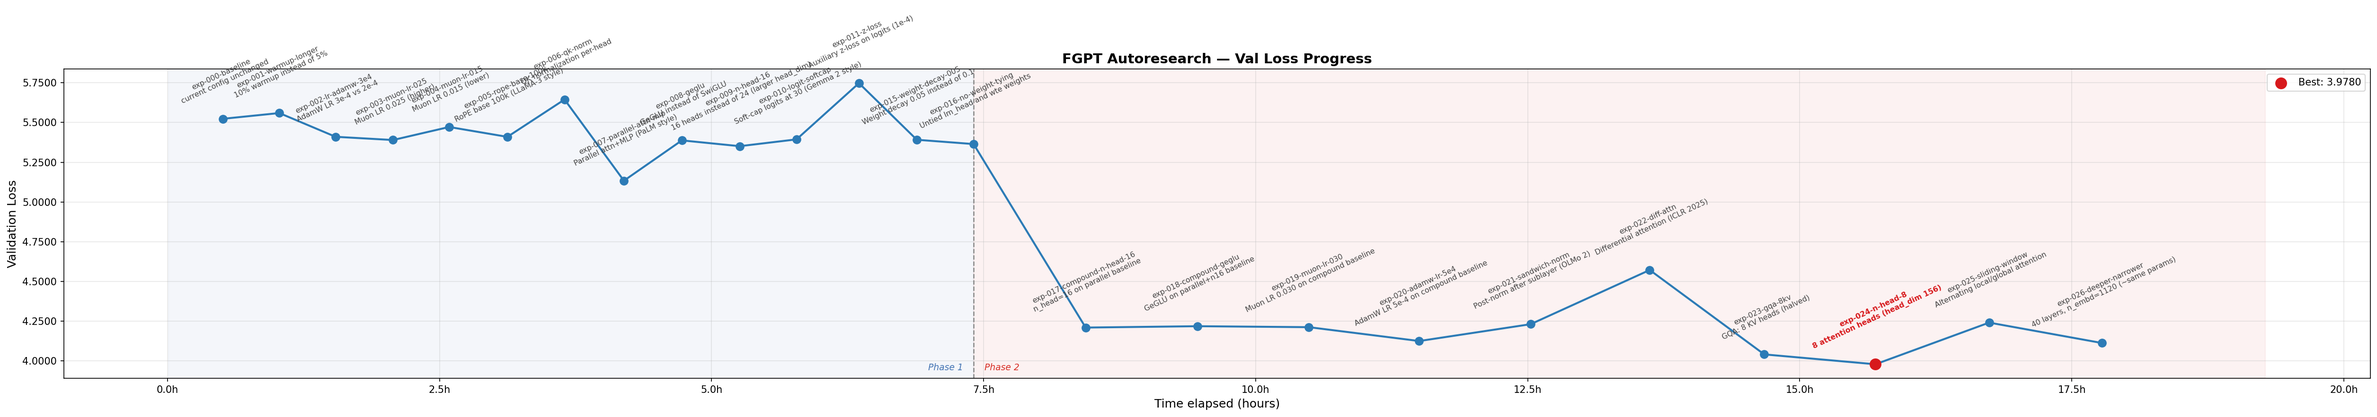
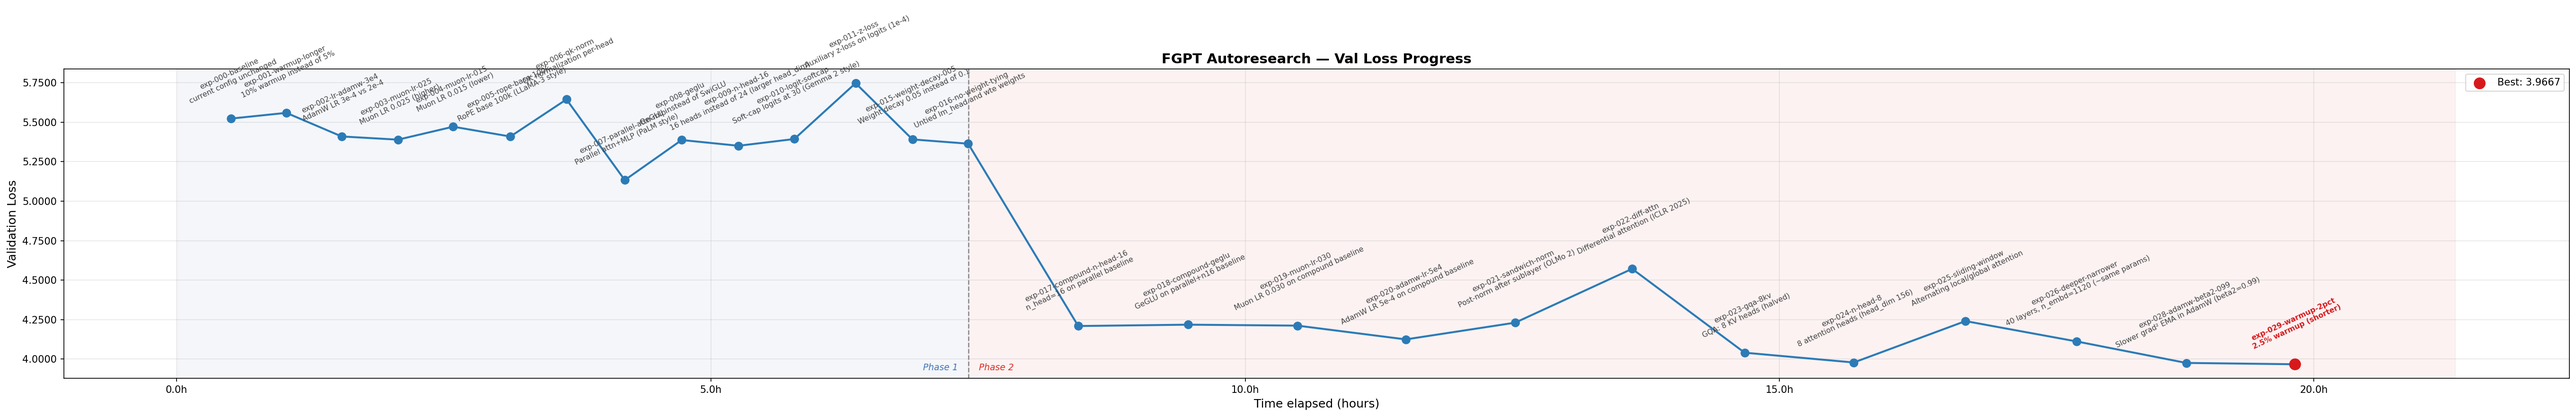
results: exp-030-batch-larger | val_loss=4.6031

diff --git a/AUTORESEARCH.md b/AUTORESEARCH.md
@@ -190,20 +190,21 @@ The first two experiments (017, 018) re-validate the other phase 1 architectural
 | 10 | `exp-021-sandwich-norm` | 4.2302 | Post-norm after sublayer (OLMo 2) |
 | 11 | `exp-025-sliding-window` | 4.2402 | Alternating local/global attention |
 | 12 | `exp-022-diff-attn` | 4.5714 | Differential attention (ICLR 2025) |
-| 13 | `exp-007-parallel-attn-mlp` | 5.1336 | Parallel attn+MLP (PaLM style) |
-| 14 | `exp-009-n-head-16` | 5.3510 | 16 heads instead of 24 (larger head_dim) |
-| 15 | `exp-016-no-weight-tying` | 5.3643 | Untied lm_head and wte weights |
-| 16 | `exp-008-geglu` | 5.3875 | GeGLU instead of SwiGLU |
-| 17 | `exp-003-muon-lr-025` | 5.3898 | Muon LR 0.025 (higher) |
-| 18 | `exp-015-weight-decay-005` | 5.3914 | Weight decay 0.05 instead of 0.1 |
-| 19 | `exp-010-logit-softcap` | 5.3939 | Soft-cap logits at 30 (Gemma 2 style) |
-| 20 | `exp-005-rope-base-100k` | 5.4097 | RoPE base 100k (LLaMA-3 style) |
-| 21 | `exp-002-lr-adamw-3e4` | 5.4101 | AdamW LR 3e-4 vs 2e-4 |
-| 22 | `exp-004-muon-lr-015` | 5.4718 | Muon LR 0.015 (lower) |
-| 23 | `exp-000-baseline` | 5.5235 | current config unchanged |
-| 24 | `exp-001-warmup-longer` | 5.5596 | 10% warmup instead of 5% |
-| 25 | `exp-006-qk-norm` | 5.6449 | QK normalization per-head |
-| 26 | `exp-011-z-loss` | 5.7478 | Auxiliary z-loss on logits (1e-4) |
+| 13 | `exp-030-batch-larger` | 4.6031 | Effective batch ~1M tokens (accum=16) |
+| 14 | `exp-007-parallel-attn-mlp` | 5.1336 | Parallel attn+MLP (PaLM style) |
+| 15 | `exp-009-n-head-16` | 5.3510 | 16 heads instead of 24 (larger head_dim) |
+| 16 | `exp-016-no-weight-tying` | 5.3643 | Untied lm_head and wte weights |
+| 17 | `exp-008-geglu` | 5.3875 | GeGLU instead of SwiGLU |
+| 18 | `exp-003-muon-lr-025` | 5.3898 | Muon LR 0.025 (higher) |
+| 19 | `exp-015-weight-decay-005` | 5.3914 | Weight decay 0.05 instead of 0.1 |
+| 20 | `exp-010-logit-softcap` | 5.3939 | Soft-cap logits at 30 (Gemma 2 style) |
+| 21 | `exp-005-rope-base-100k` | 5.4097 | RoPE base 100k (LLaMA-3 style) |
+| 22 | `exp-002-lr-adamw-3e4` | 5.4101 | AdamW LR 3e-4 vs 2e-4 |
+| 23 | `exp-004-muon-lr-015` | 5.4718 | Muon LR 0.015 (lower) |
+| 24 | `exp-000-baseline` | 5.5235 | current config unchanged |
+| 25 | `exp-001-warmup-longer` | 5.5596 | 10% warmup instead of 5% |
+| 26 | `exp-006-qk-norm` | 5.6449 | QK normalization per-head |
+| 27 | `exp-011-z-loss` | 5.7478 | Auxiliary z-loss on logits (1e-4) |
 
 *Auto-updated by `run_experiment.py` after each run — see `experiments/results.jsonl` for full data.*
 

diff --git a/experiments/notes/exp-030-batch-larger.md b/experiments/notes/exp-030-batch-larger.md
@@ -1,0 +1,27 @@
+# exp-030-batch-larger
+
+**Description:** Effective batch ~1M tokens (accum=16)  
+**Val loss:** 4.6031  
+**Duration:** 60.3 min  
+**Seed:** 42  
+**Date:** 2026-04-13 08:26  
+
+## Hyperparameters
+
+| Parameter | Value |
+|-----------|-------|
+| AdamW LR | 0.0005 |
+| Muon LR | 0.025 |
+| Warmup | 2.5% |
+| Accum steps | 16 |
+| Min LR ratio | 0.05 |
+| RoPE base | 10000 |
+| n_head | 8 |
+
+## Reasoning
+
+Doubling accumulation steps from 8 to 16 doubles the effective batch size to ~1M tokens per optimizer update. Larger batches produce lower-variance gradient estimates, which may stabilise training and allow the optimizer to take better steps. Downside: half as many optimizer updates in the same wall-clock time (~300 vs ~600 updates), so the model sees fewer LR schedule steps. Net effect depends on which matters more: gradient quality or update frequency.
+
+## Outcome
+
+**Better than baseline** (4.6031 vs 5.5235, -0.9204 better than baseline).
